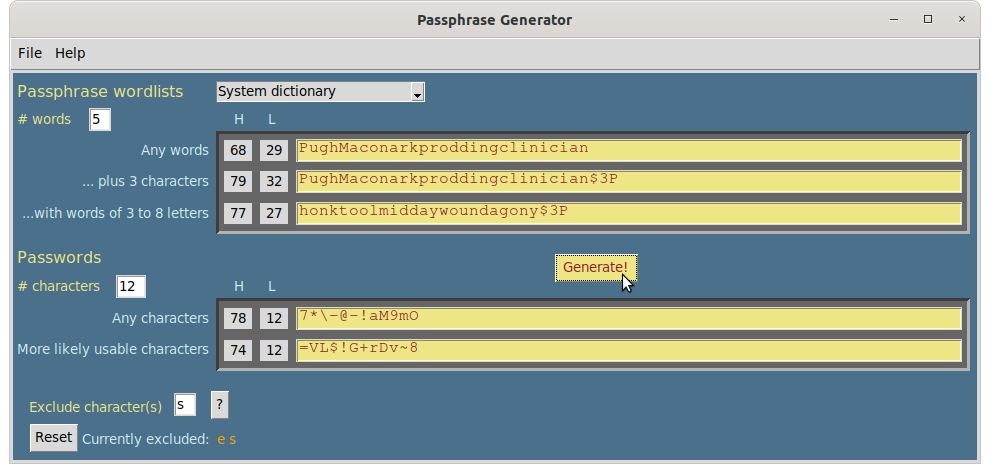
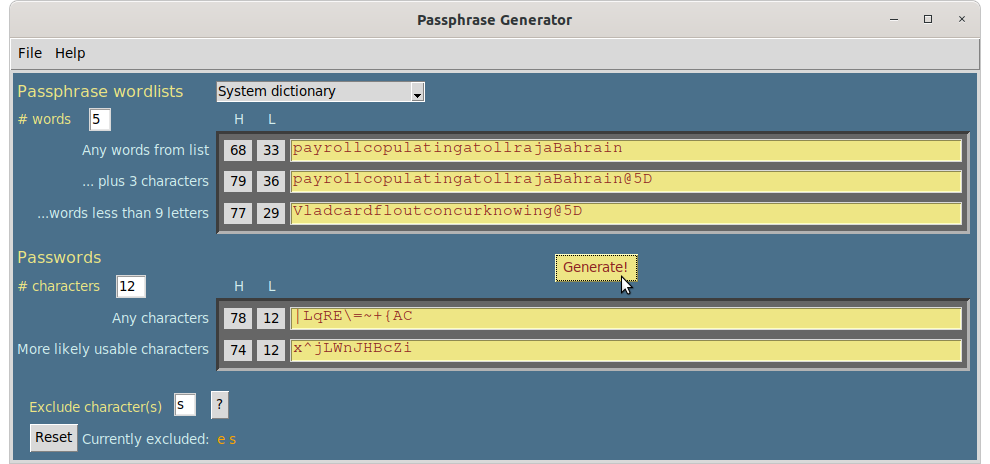
update screenshot

diff --git a/passphrase.py b/passphrase.py
@@ -462,11 +462,11 @@ class PassViewer(tk.Frame):
         self.result_frame2 = tk.Frame(master, borderwidth=3, relief='sunken',
                                       background=self.dataframe_bg)
 
-        self.pp_raw_head =   tk.Label(text="Any word from list",
+        self.pp_raw_head =   tk.Label(text="Any words from list",
                                       fg=self.master_fg, bg=self.master_bg)
         self.pp_plus_head =  tk.Label(text="... plus 3 characters",
                                       fg=self.master_fg, bg=self.master_bg)
-        self.pp_short_head = tk.Label(text="...but fewer than 9 letters",
+        self.pp_short_head = tk.Label(text="...words less than 9 letters",
                                       fg=self.master_fg, bg=self.master_bg)
 
         self.share.tkdata['pp_raw_len'].set(0)
